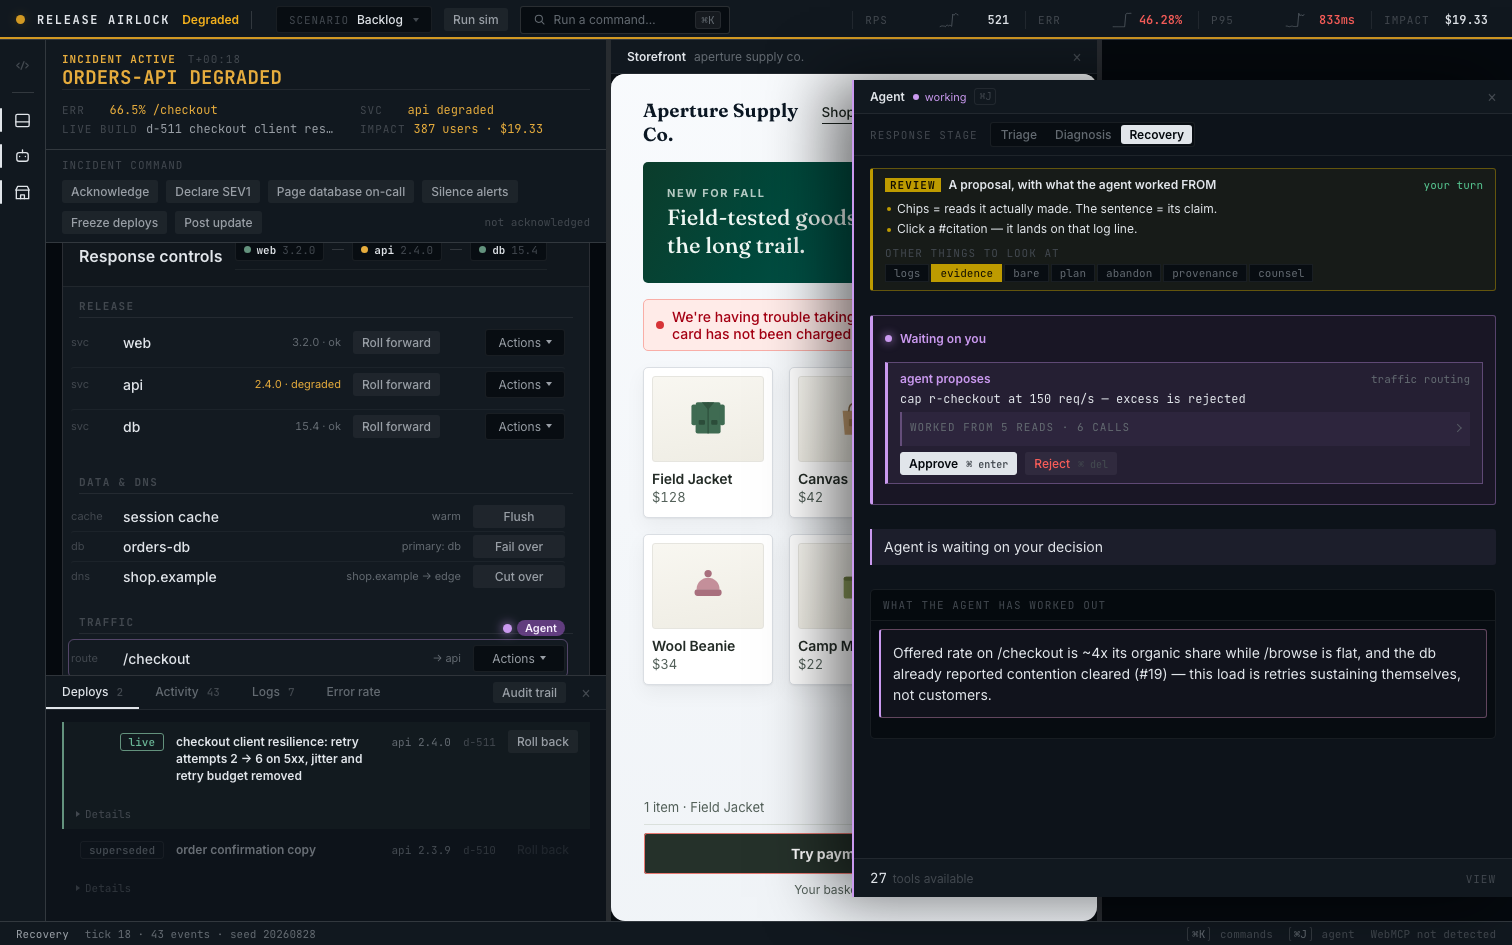
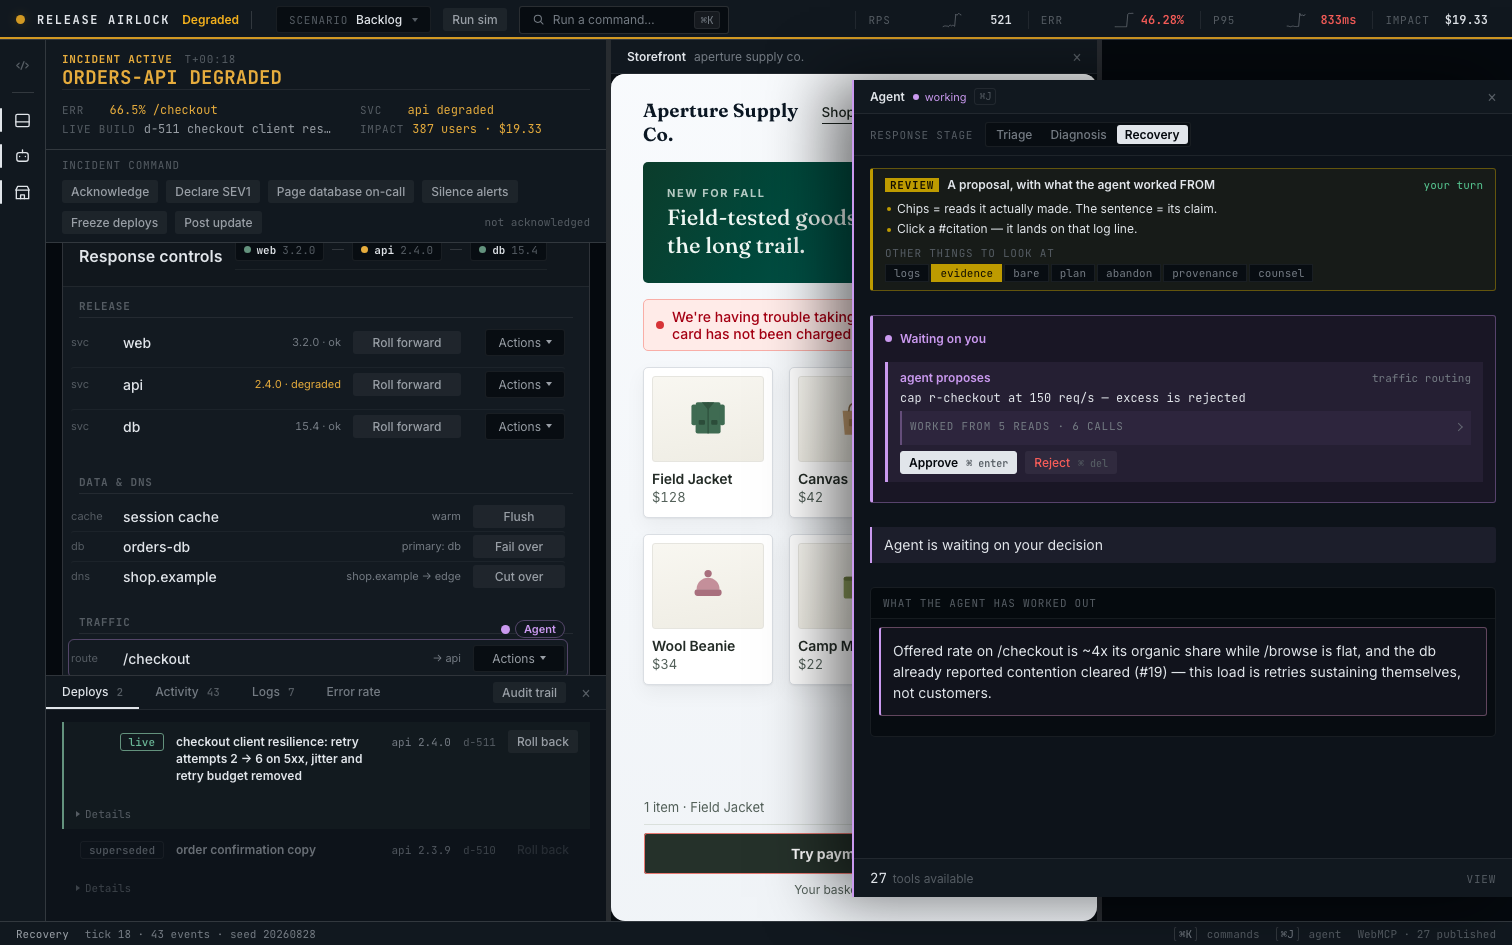
cosmetic pass: the three tells two outside reviewers named independently
Claude.ai (Fable 5) and ChatGPT (high effort) each got the same eight shots
and were asked for a purely cosmetic crit. They converged on three things
without seeing each other's answers, so those went first.

1. "WebMCP not detected" in the status bar of every frame. Both rounds of
   review flagged it; ChatGPT's word was "radioactive" — in a WebMCP
   competition it reads as the feature being broken. It was a ONE-SHOT read of
   `navigator.modelContext` at boot, so it never updated when a host attached
   later, and it reported the wrong subject: this page's job is to PUBLISH a
   tool surface, and it does that whether or not a client has attached. Now
   `WebMCP · N published`, plus `· host attached` when there is one, re-read on
   every render.

2. Token entropy. Four different letter-spacings (.07/.08/.09/.1/.12em) on
   uppercase labels doing identical jobs, all of them tracked far enough apart
   at 11px to read as texture rather than type — one token now, reduced ~22%.
   And the bottom two rungs of the ink ramp were 52%/40% on a 13.5% ground,
   which made `flag`, `svc`, `primary: db` and the whole status bar look
   accidentally faded rather than deliberately subordinate. Lifted a step each.

3. Border soup in the agent dock. Dock, violet `.airlock` frame, card, tool
   box — four nested rectangles, three violet-tinted, each with its own stroke.
   Both called it the closest thing to cheap in the console ("looks like nested
[…]

diff --git a/src/styles/shell.css b/src/styles/shell.css
@@ -809,11 +809,16 @@ body {
   white-space: nowrap;
   padding-top: 3px;
 }
+/* NO OUTER GLOW on anything the agent owns. Violet is the right hue — it is
+   the one colour in the palette that is not already a system state — but a
+   lavender dot with a halo is the reflexive "AI magic layer" treatment, and
+   two outside reviewers named it independently as the one cheap-looking thing
+   in the console. The identity stays; the luminance goes. An actor in an ops
+   system is clinical, not glowing. */
 .al-dot {
   width: 7px; height: 7px;
   border-radius: 50%;
   background: var(--actor-agent);
-  box-shadow: 0 0 8px 2px oklch(76% 0.13 310 / 0.4);
 }
 .al-cards { display: grid; gap: var(--sp-2); min-width: 0; }
 
@@ -929,16 +934,24 @@ body {
   color: var(--ink-ghost);
 }
 
-/* --- designed empty states: never leave a region blank ------------------ */
+/* --- designed empty states: never leave a region blank ------------------
+   A DASHED BOX WITH A CENTRED GREY SENTENCE is the one stock component-library
+   pattern in this console, and both outside reviewers picked it out by name
+   ("says component library placeholder"). The copy is the good part — "Nothing
+   published. Customers have not been told anything." is a fact about the
+   incident, not a placeholder. So keep the sentence and drop the costume: a
+   quiet inset well, left-aligned like every other row in the console, with a
+   rule above it rather than a dashed rectangle around it. */
 .empty {
-  padding: var(--sp-5) var(--sp-4);
-  text-align: center;
-  color: var(--ink-ghost);
+  padding: var(--sp-4);
+  text-align: left;
+  color: var(--ink-faint);
   font-family: var(--font-prose);
   font-size: var(--text-xs);
   line-height: 1.6;
-  border: 1px dashed var(--line-strong);
-  border-radius: var(--r-md);
+  background: var(--s-well);
+  border-top: 1px solid var(--line);
+  border-radius: 0 0 var(--r-sm) var(--r-sm);
 }
 .empty[hidden] { display: none; }
 @media (prefers-reduced-motion: reduce) {
@@ -1002,7 +1015,6 @@ body {
   width: 9px; height: 9px;
   border-radius: 50%;
   background: var(--actor-agent);
-  box-shadow: 0 0 10px 2px oklch(76% 0.13 310 / 0.45);
 }
 #agent-cursor .ac-label {
   font-family: var(--font-prose);
@@ -1010,8 +1022,12 @@ body {
   font-weight: 600;
   letter-spacing: 0;
   text-transform: capitalize;
-  color: oklch(96% 0.02 310);
-  background: oklch(50% 0.14 310 / 0.75);
+  /* the pill was a solid violet lozenge floating over the controls, which is
+     exactly the "annotation from an AI demo framework" look. Neutral ground,
+     violet text and a hairline: it labels an actor, it does not glow. */
+  color: var(--actor-agent);
+  background: var(--s-chrome);
+  border: 1px solid var(--actor-agent-dim);
   border-radius: 999px;
   padding: 1px var(--sp-2);
 }
@@ -1184,8 +1200,17 @@ body {
 #event-stream.audit li[data-kind='mode.changed'] { display: flex; }
 
 /* --- approval diff-cards (M3-03) --------------------------- */
+/* ONE BORDER PER OBJECT. The dock was four nested rectangles — dock, the
+   violet `.airlock` frame, this card, and the tool box inside it — three of
+   them violet-tinted, each with its own stroke. Both outside reviewers named
+   it independently as the closest thing to cheap in the console ("looks like
+   nested divs"). A real elevation ladder alternates border and fill: the
+   `.airlock` frame keeps the stroke, the card inside it becomes a fill shift
+   with only its left rail. The rail is load-bearing — every state on this
+   card (dual-key tier, provenance, complete, abandoned) is signalled through
+   `border-left-color`, so dropping the surrounding border costs no meaning. */
 .approval-card {
-  border: 1px solid var(--actor-agent-dim);
+  border: 0 solid var(--actor-agent-dim);
   border-left: 3px solid var(--actor-agent);
   border-radius: 0;
   padding: var(--sp-2) var(--sp-3);
@@ -1707,7 +1732,7 @@ body {
    the left is the state at a glance — filled means done, ringed means this
    is the one you are being asked about, hollow means not yet asked. */
 .plan-card {
-  border: 1px solid var(--actor-agent-dim);
+  border: 0 solid var(--actor-agent-dim);
   border-left: 3px solid var(--actor-agent);
   background: oklch(76% 0.13 310 / 0.07);
   padding: var(--sp-2) var(--sp-3);
@@ -1840,20 +1865,30 @@ body {
   font-family: var(--font-instrument);
   font-size: var(--text-2xs);
   font-variant-numeric: tabular-nums;
-  background: var(--panel);
+  /* The ring straddles the controls card's left border on purpose — the
+     number belongs to the plan in the dock and points at the row in the
+     console, so it should sit on the seam. It was reading as MISRENDERED
+     rather than deliberate: `--panel` matched neither the card it half sits
+     on nor the ground it half sits over, so it looked like a badge that had
+     been clipped. Take the card's own surface, and knock a ring of the page
+     ground out around it, so the seam is something the badge punches through
+     instead of something that cuts it. */
+  background: var(--s-raised);
   border: 1px solid var(--actor-agent-dim);
+  box-shadow: 0 0 0 3px var(--bg);
   color: var(--ink-faint);
   pointer-events: none;
 }
 .plan-anchor[data-plan-state='live']::before {
   border-color: var(--actor-agent);
   color: var(--actor-agent);
-  box-shadow: 0 0 0 3px oklch(76% 0.13 310 / 0.18);
+  box-shadow: 0 0 0 3px var(--bg), 0 0 0 4px var(--actor-agent-dim);
 }
 .plan-anchor[data-plan-state='done']::before {
   content: '✓';
   border-color: var(--good);
   background: var(--good);
+  box-shadow: 0 0 0 3px var(--bg);
   color: var(--panel);
 }
 .plan-anchor[data-plan-state='live'] { outline: 1px solid var(--actor-agent-dim); outline-offset: 2px; }
@@ -2125,7 +2160,7 @@ body {
   color: var(--ink-ghost);
   font-family: var(--font-instrument);
   font-size: var(--text-2xs);
-  letter-spacing: .1em;
+  letter-spacing: var(--tracking-label);
   text-transform: uppercase;
   margin-bottom: 2px;
 }
@@ -2153,7 +2188,7 @@ body {
   display: block;
   font-family: var(--font-instrument);
   font-size: var(--text-2xs);
-  letter-spacing: .1em;
+  letter-spacing: var(--tracking-label);
   text-transform: uppercase;
   color: var(--actor-agent);
   margin-bottom: 4px;
@@ -2175,7 +2210,7 @@ body {
 .ladder-title {
   font-size: var(--text-2xs);
   font-family: var(--font-instrument);
-  letter-spacing: .1em; text-transform: uppercase;
+  letter-spacing: var(--tracking-label); text-transform: uppercase;
   color: var(--ink-ghost);
 }
 .ladder .ts-count { margin-left: auto; font-variant-numeric: tabular-nums;
@@ -2227,7 +2262,7 @@ body {
 .rail-modes-label {
   font-family: var(--font-instrument);
   font-size: var(--text-2xs);
-  letter-spacing: .1em; text-transform: uppercase;
+  letter-spacing: var(--tracking-label); text-transform: uppercase;
   color: var(--ink-ghost);
 }
 /* the read/write badge is secondary to the sentence it annotates */
@@ -2263,7 +2298,7 @@ body {
 }
 .scenario .sc-k {
   font-family: var(--font-instrument); font-size: var(--text-2xs);
-  letter-spacing: .08em; text-transform: uppercase; color: var(--ink-ghost);
+  letter-spacing: var(--tracking-label); text-transform: uppercase; color: var(--ink-ghost);
 }
 .scenario .sc-v { font-size: var(--text-xs); color: var(--ink); font-weight: 500; }
 .sc-menu {
@@ -2297,7 +2332,7 @@ body {
 .ctl-group-label {
   font-family: var(--font-instrument);
   font-size: var(--text-2xs);
-  letter-spacing: .12em; text-transform: uppercase;
+  letter-spacing: var(--tracking-label); text-transform: uppercase;
   color: var(--ink-ghost);
   margin: var(--sp-4) 0 var(--sp-2);
   padding-bottom: 4px;
@@ -2358,7 +2393,7 @@ body {
   display: inline-block;
   font-family: var(--font-instrument);
   font-size: var(--text-2xs);
-  letter-spacing: .08em; text-transform: uppercase;
+  letter-spacing: var(--tracking-label); text-transform: uppercase;
   color: var(--ink-ghost);
   margin-bottom: 3px;
 }
@@ -2610,7 +2645,7 @@ h4.ctl-group-label { margin: 0 0 var(--sp-2); }
 .pi-group {
   grid-area: group;
   font-family: var(--font-instrument); font-size: var(--text-2xs);
-  letter-spacing: .08em; text-transform: uppercase; color: var(--ink-ghost);
+  letter-spacing: var(--tracking-label); text-transform: uppercase; color: var(--ink-ghost);
   padding-top: 2px;
 }
 .pi-label { grid-area: label; font-size: var(--text-sm); }
@@ -2685,6 +2720,13 @@ h4.ctl-group-label { margin: 0 0 var(--sp-2); }
    Traffic / Data & DNS groups land near 430, so every row wrapped its verb
    onto a second line. */
 @container ctlgroup (min-width: 400px) {
+  /* The primary verb FILLS its track. Content-width buttons in a fixed track
+     right-align to the same edge and start at three different ones, so Flush
+     / Fail over / Cut over staggered down the Data & DNS group while the
+     Release rows above them looked square — the panel was one property away
+     from the grid it already implied. */
+  .ctl-row > .lever,
+  .ctl-row > .ctl-btn:not(.ctl-menu-btn) { width: 100%; }
   .ctl-row {
     grid-template-columns:
       40px                      /* kind      */

diff --git a/src/main.ts b/src/main.ts
@@ -469,9 +469,29 @@ document.querySelector('#health-demo')?.addEventListener('click', (e) => {
   if (btn) setHealth(btn.dataset.healthSet as Health);
 });
 
-document.querySelector('#wbs-webmcp')!.textContent = hasWebMCP()
-  ? 'WebMCP ready'
-  : 'WebMCP not detected';
+/**
+ * WHAT THE STATUS BAR SAYS ABOUT WebMCP.
+ *
+ * It used to be a ONE-SHOT read at boot that said `WebMCP not detected` when
+ * `navigator.modelContext` was absent — which is most of the time, including
+ * in every screenshot and in any browser where the host attaches after load.
+ * Two things were wrong with it. It never updated, so a host that arrived a
+ * second later was never acknowledged. And it reported the wrong subject: the
+ * page's job here is to PUBLISH a tool surface, and it does that whether or
+ * not a client has attached yet. "Not detected" described the visitor and
+ * read as "this feature is broken".
+ *
+ * So: say what the page did, then say whether anyone is on the other end.
+ * Both halves are true in every state, and it is re-read on every render.
+ */
+function renderWebMCPStatus(active: number): void {
+  const el = document.querySelector<HTMLElement>('#wbs-webmcp');
+  if (!el) return;
+  el.dataset.host = hasWebMCP() ? 'on' : 'off';
+  el.textContent = hasWebMCP()
+    ? `WebMCP · ${active} published · host attached`
+    : `WebMCP · ${active} published`;
+}
 
 // ---- sim worker wiring (M2-02) ------------------------------------------
 // Engine lives in the Worker; the main thread only paces it (real time is
@@ -3588,6 +3608,7 @@ function renderCapability(tools: AirlockTools): void {
   const writes = active.filter((t) => !t.readOnly && t.name !== 'record_finding');
   const countEl = document.querySelector<HTMLElement>('#tool-count');
   if (countEl) countEl.textContent = String(active.length);
+  renderWebMCPStatus(active.length);
   // the count is only true for the stage you are on, so the sheet says which
   const stageEl = document.querySelector<HTMLElement>('#surface-stage');
   if (stageEl) stageEl.textContent = `${tools.mode()} stage · ${active.length} available now`;

diff --git a/src/styles/tokens.css b/src/styles/tokens.css
@@ -63,8 +63,12 @@
   /* --- ink ------------------------------------------------ */
   --ink: oklch(92% 0.008 250);
   --ink-dim: oklch(70% 0.012 250);
-  --ink-faint: oklch(52% 0.014 250);
-  --ink-ghost: oklch(40% 0.014 250);
+  /* The bottom two steps were 52% and 40% on a 13.5% ground, and read as
+     accidentally faded rather than deliberately subordinate — `flag`, `svc`,
+     `primary: db` and the whole status bar were sludge. Lifted one step each;
+     the ladder still has four clearly separate rungs. */
+  --ink-faint: oklch(58% 0.014 250);
+  --ink-ghost: oklch(47% 0.014 250);
 
   /* --- actor colors (thread of agency) -------------------- */
   --actor-human: oklch(76% 0.10 250);   /* cool blue — the human hand */
@@ -90,7 +94,13 @@
   --text-md: 1rem;         /* 16px — prose */
   --text-lg: 1.1875rem;    /* 19px — pane-level headings */
   --text-xl: 1.375rem;     /* 22px — the situation line */
-  --tracking-label: 0.09em;
+  /* ONE value for every uppercase label. The sheet had drifted to four —
+     0.08em, 0.09em, 0.1em and 0.12em on labels doing identical jobs — which
+     is the kind of thing that reads as assembled rather than set. Reduced
+     ~22% at the same time: at 11px these were tracked far enough apart to
+     read as texture instead of type. */
+  --tracking-label: 0.07em;
+  /* identity only — the wordmark, where the wide setting is the point */
   --tracking-wide: 0.14em;
 
   /* --- one spring family (SPEC: single motion physics) ---- */
